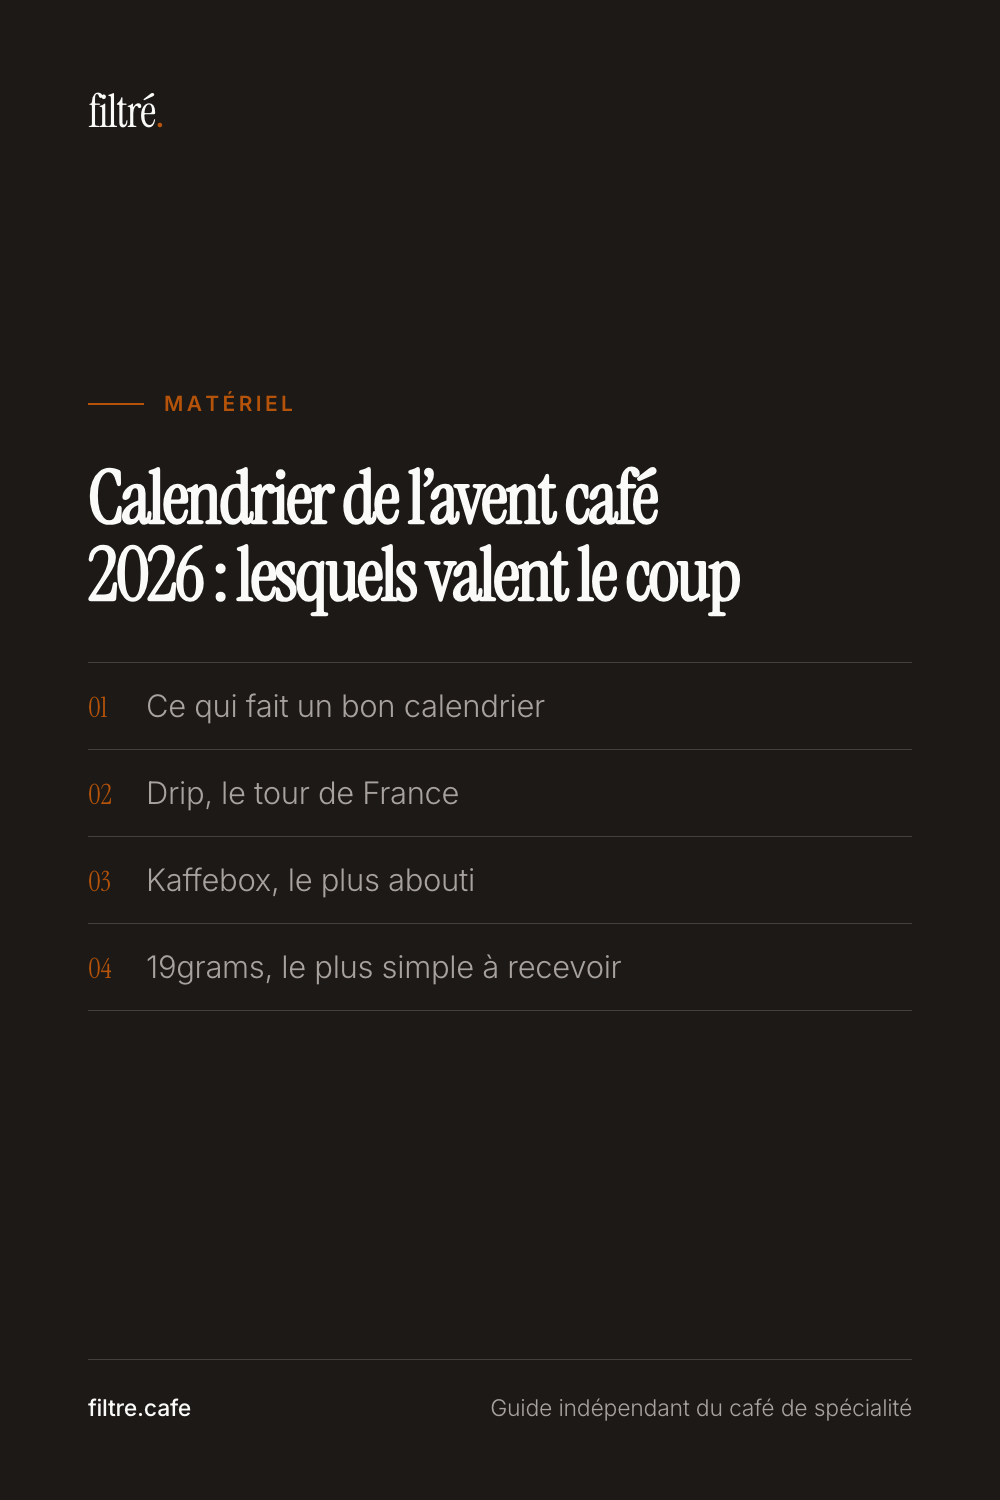
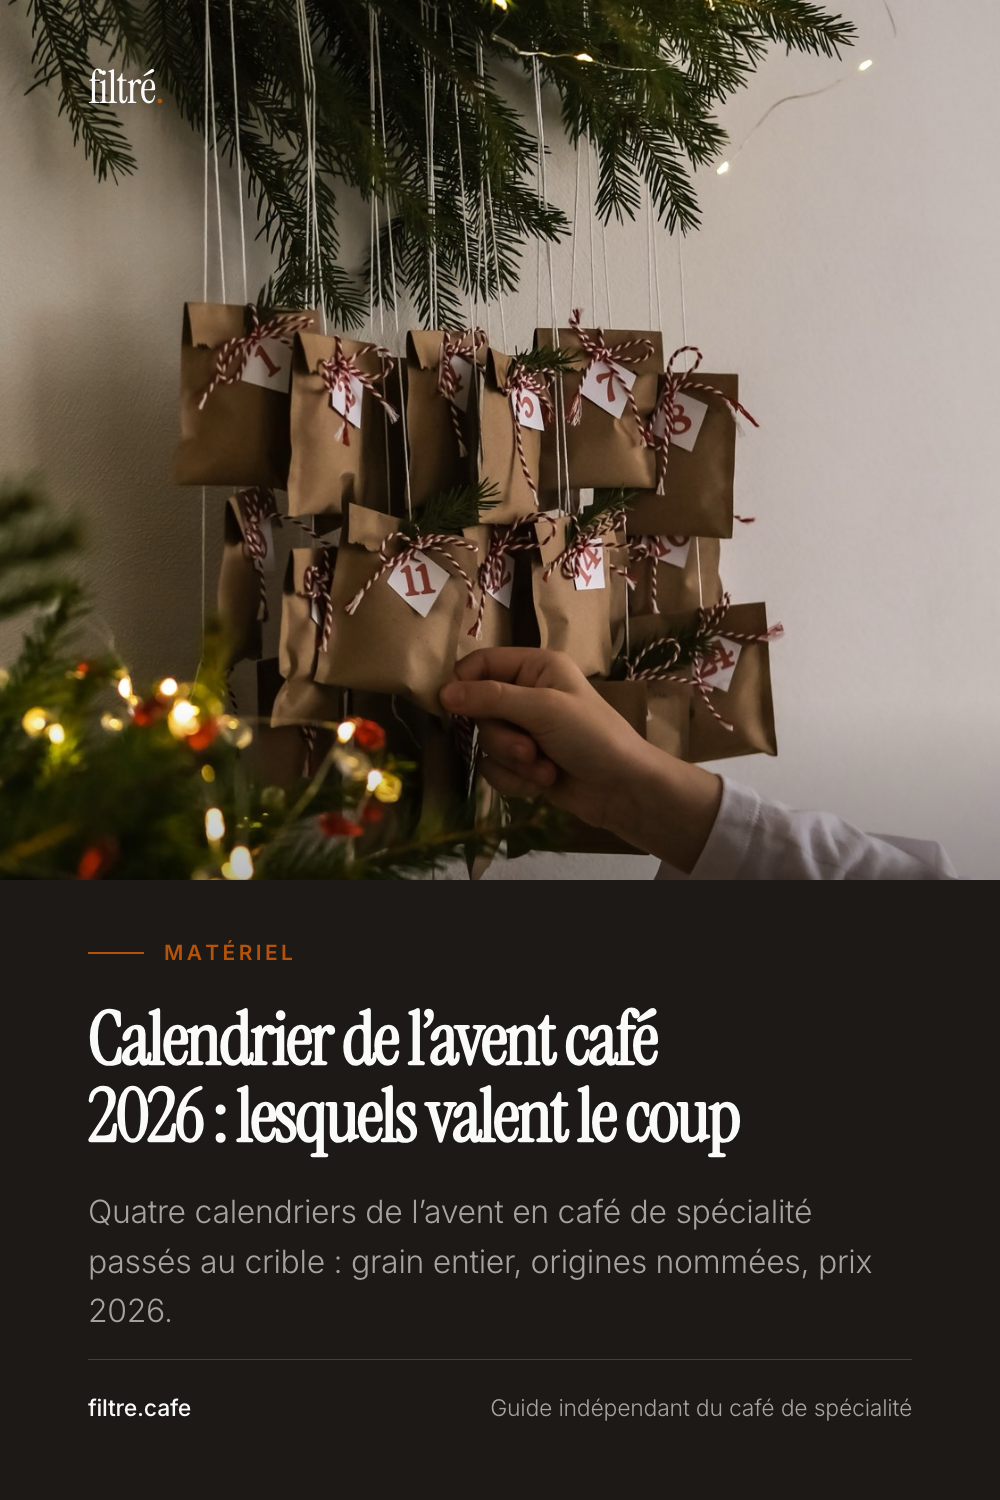
Une photo pour l'epingle du calendrier de l'avent
Le README annonçait depuis le debut qu'une photo vaudrait un deuxieme gabarit
dans template.html. En voici l'occasion : la saison des calendriers commence, et
une carte typographique de plus se noie dans un fil Pinterest ou tout le monde
poste des sapins.

Le texte ne passe pas sur l'image. Une epingle fait 236 px de large dans le fil,
un titre pose sur une photo y devient une tache. La photo tient donc les 880
premiers pixels, le texte reste en dessous sur le fond sombre du site, et seul
le logotype passe par-dessus, sur les branches ou il reste lisible.

Le gabarit se declenche par un champ "photo" dans extras.json, qui nomme un
fichier de tools/pinterest/photos/. La photo part en base64 dans la page rendue,
comme les polices : le rendu ne depend ni du reseau ni du repertoire courant de
Chrome, et photos/ n'a pas besoin d'etre deploye. Il ne l'est pas, sync-public.sh
ne copie que pins/.

Au passage, "desc" et "accroche" se separent. La carte tient 120 signes, le champ
Pinterest en accepte 500 : au-dela d'une phrase les deux textes n'ont plus le
meme travail. Sans accroche, la carte reprend desc comme avant.

Les 88 autres epingles ressortent a l'octet pres, verifie sur quatre d'entre
elles.

diff --git a/tools/pinterest/template.html b/tools/pinterest/template.html
@@ -33,6 +33,29 @@ body.clair  { background: var(--stone-50);  --ink: var(--stone-900); --mute: var
 body.sombre { background: var(--stone-900); --ink: var(--stone-50);  --mute: var(--stone-400); --accent: var(--amber-700); --rule: var(--stone-700); }
 
 
+/* --- gabarit photo : bandeau plein cadre en haut, texte sur fond plein ------ */
+/* Le site est typographique, mais une photo de saison capte l'oeil dans le fil.
+   Le texte ne passe pas dessus : a 236 px de large dans le feed, un titre pose
+   sur une image devient illisible. */
+.shot { position: absolute; top: 0; left: 0; right: 0; height: 880px; overflow: hidden; }
+.shot img { width: 100%; height: 100%; object-fit: cover; object-position: 50% 44%; display: block; }
+.shot::after {
+  content: ''; position: absolute; left: 0; right: 0; bottom: 0; height: 180px;
+  background: linear-gradient(to bottom, transparent, rgba(0,0,0,.28));
+}
+
+body.photo .card { padding-top: 940px; }
+body.photo .wordmark {
+  position: absolute; top: 60px; left: 88px; z-index: 2;
+  color: var(--stone-50);
+  text-shadow: 0 2px 18px rgba(0,0,0,.45);
+}
+body.photo .wordmark span { color: var(--amber-700); }
+body.photo .middle { padding-bottom: 0; justify-content: flex-start; }
+body.photo .kicker { margin-bottom: 36px; }
+body.photo .sub { margin-top: 32px; }
+
+
 .card {
   position: relative; z-index: 1;
   height: 1500px;
@@ -111,7 +134,8 @@ body.sombre { background: var(--stone-900); --ink: var(--stone-50);  --mute: var
 .foot .note { color: var(--mute); font-weight: 300; }
 </style>
 </head>
-<body class="{{THEME}}">
+<body class="{{THEME}} {{VARIANTE}}">
+{{PHOTO}}
 <div class="card">
   <div class="wordmark">filtré<span>.</span></div>
   <div class="middle">

diff --git a/tools/pinterest/pins.py b/tools/pinterest/pins.py
@@ -200,6 +200,10 @@ def extras(only=None):
             "kicker": KICKERS[board],
             "outline": [curl(h) for h in e.get("outline", [])],
             "theme": e.get("theme"), "layout": e.get("layout"),
+            "photo": e.get("photo"),
+            # La carte tient 120 signes, le champ Pinterest en accepte 500 :
+            # au-dela d'une phrase, les deux textes n'ont plus le meme travail.
+            "accroche": curl(e.get("accroche", "")),
         })
     return out
 
@@ -219,6 +223,17 @@ def fonts_css():
         css.append(f"@font-face{{font-family:'{family}';font-style:normal;"
                    f"font-weight:{weight};src:url(data:font/woff2;base64,{b64}) format('woff2');}}")
     return "\n".join(css)
+
+
+def photo_uri(name):
+    """La photo part en base64 dans la page, comme les polices : le rendu ne
+    depend ni du reseau ni du repertoire courant de Chrome."""
+    path = os.path.join(HERE, "photos", name)
+    if not os.path.exists(path):
+        sys.exit(f"photo introuvable : {os.path.relpath(path, ROOT)}")
+    mime = "image/png" if name.lower().endswith(".png") else "image/jpeg"
+    b64 = base64.b64encode(open(path, "rb").read()).decode()
+    return f"data:{mime};base64,{b64}"
 
 
 def clamp(t, limit=170):
@@ -241,17 +256,26 @@ def build_html(art, template, fonts):
     theme = art.get("theme") or ("sombre" if seed % 3 == 0 else "clair")
     veut_toc = art.get("layout") == "sommaire" or (art.get("layout") is None and seed % 3 == 1)
 
+    # Avec une photo, il ne reste que 560 px sous le bandeau : le sommaire n'y
+    # tient pas, l'accroche est raccourcie.
+    photo = art.get("photo")
     steps = art["outline"][:4]
-    if veut_toc and len(steps) >= 3:
+    if veut_toc and not photo and len(steps) >= 3:
         items = "".join(f'<li><span class="n">{i:02d}</span>{html.escape(s)}</li>'
                         for i, s in enumerate(steps, 1))
         body = f'<ol class="toc">{items}</ol>'
     else:
-        body = f'<p class="sub">{html.escape(clamp(art["desc"]))}</p>' if art["desc"] else ""
+        dit = art.get("accroche") or art["desc"]
+        body = (f'<p class="sub">{html.escape(clamp(dit, 130 if photo else 170))}</p>'
+                if dit else "")
+
+    shot = f'<div class="shot"><img src="{photo_uri(photo)}" alt=""></div>' if photo else ""
 
     return (template
             .replace("{{FONTS}}", fonts)
             .replace("{{THEME}}", theme)
+            .replace("{{VARIANTE}}", "photo" if photo else "")
+            .replace("{{PHOTO}}", shot)
             .replace("{{KICKER}}", html.escape(art["kicker"]))
             .replace("{{TITLE_SIZE}}", str(title_size(art["title"])))
             .replace("{{TITLE}}", html.escape(art["title"]))

diff --git a/tools/pinterest/README.md b/tools/pinterest/README.md
@@ -63,6 +63,22 @@ Deux mises en page alternent selon le slug, en clair ou en sombre : titre + accr
 ou titre + sommaire de l'article. Le rendu est déterministe, un article donné garde
 toujours la même carte. Pour changer le design, tout est dans `template.html`.
 
+Un troisième gabarit existe pour les épingles à photo : bandeau plein cadre sur les
+880 premiers pixels, texte en dessous sur fond plein. Le texte ne passe jamais sur
+l'image — dans le fil, une épingle fait 236 px de large, un titre posé sur une photo
+n'y survit pas. Il se déclenche depuis `extras.json` avec un champ `photo` qui nomme un
+fichier de `tools/pinterest/photos/` :
+
+```json
+{ "slug": "calendrier-avent-cafe", "photo": "calendrier-avent.jpg", "theme": "sombre" }
+```
+
+La photo est encodée en base64 dans la page rendue, comme les polices, donc `photos/`
+n'a pas besoin d'être déployé — et ne l'est pas, `sync-public.sh` ne copie que `pins/`.
+Prévoir une source en 2:3 ou plus haute, ~1400 px de large suffit ; le cadrage se règle
+avec `object-position` sur `.shot img`. Une épingle à photo ignore le sommaire, il ne
+reste pas la place.
+
 ## L'avatar du profil
 
 ```bash
@@ -135,6 +151,6 @@ situer un compte neuf. Juger au bout de trois semaines, c'est juger du bruit.
 
 - Pas de publication automatique. L'API Pinterest demande une application validée par
   leurs équipes ; le CSV fait le même travail sans cette démarche.
-- Pas de photo. Ce sont des cartes typographiques, ce qui tombe bien vu qu'il y a trois
-  images sur tout le site. Le jour où il y a des photos de matériel, ça vaudra un
-  deuxième gabarit dans `template.html`.
+- Pas de photo automatique. Le site n'en a que trois, il n'y a rien à piocher : les
+  cartes restent typographiques par défaut. Une photo se pose à la main, épingle par
+  épingle, via le champ `photo` d'`extras.json`.
